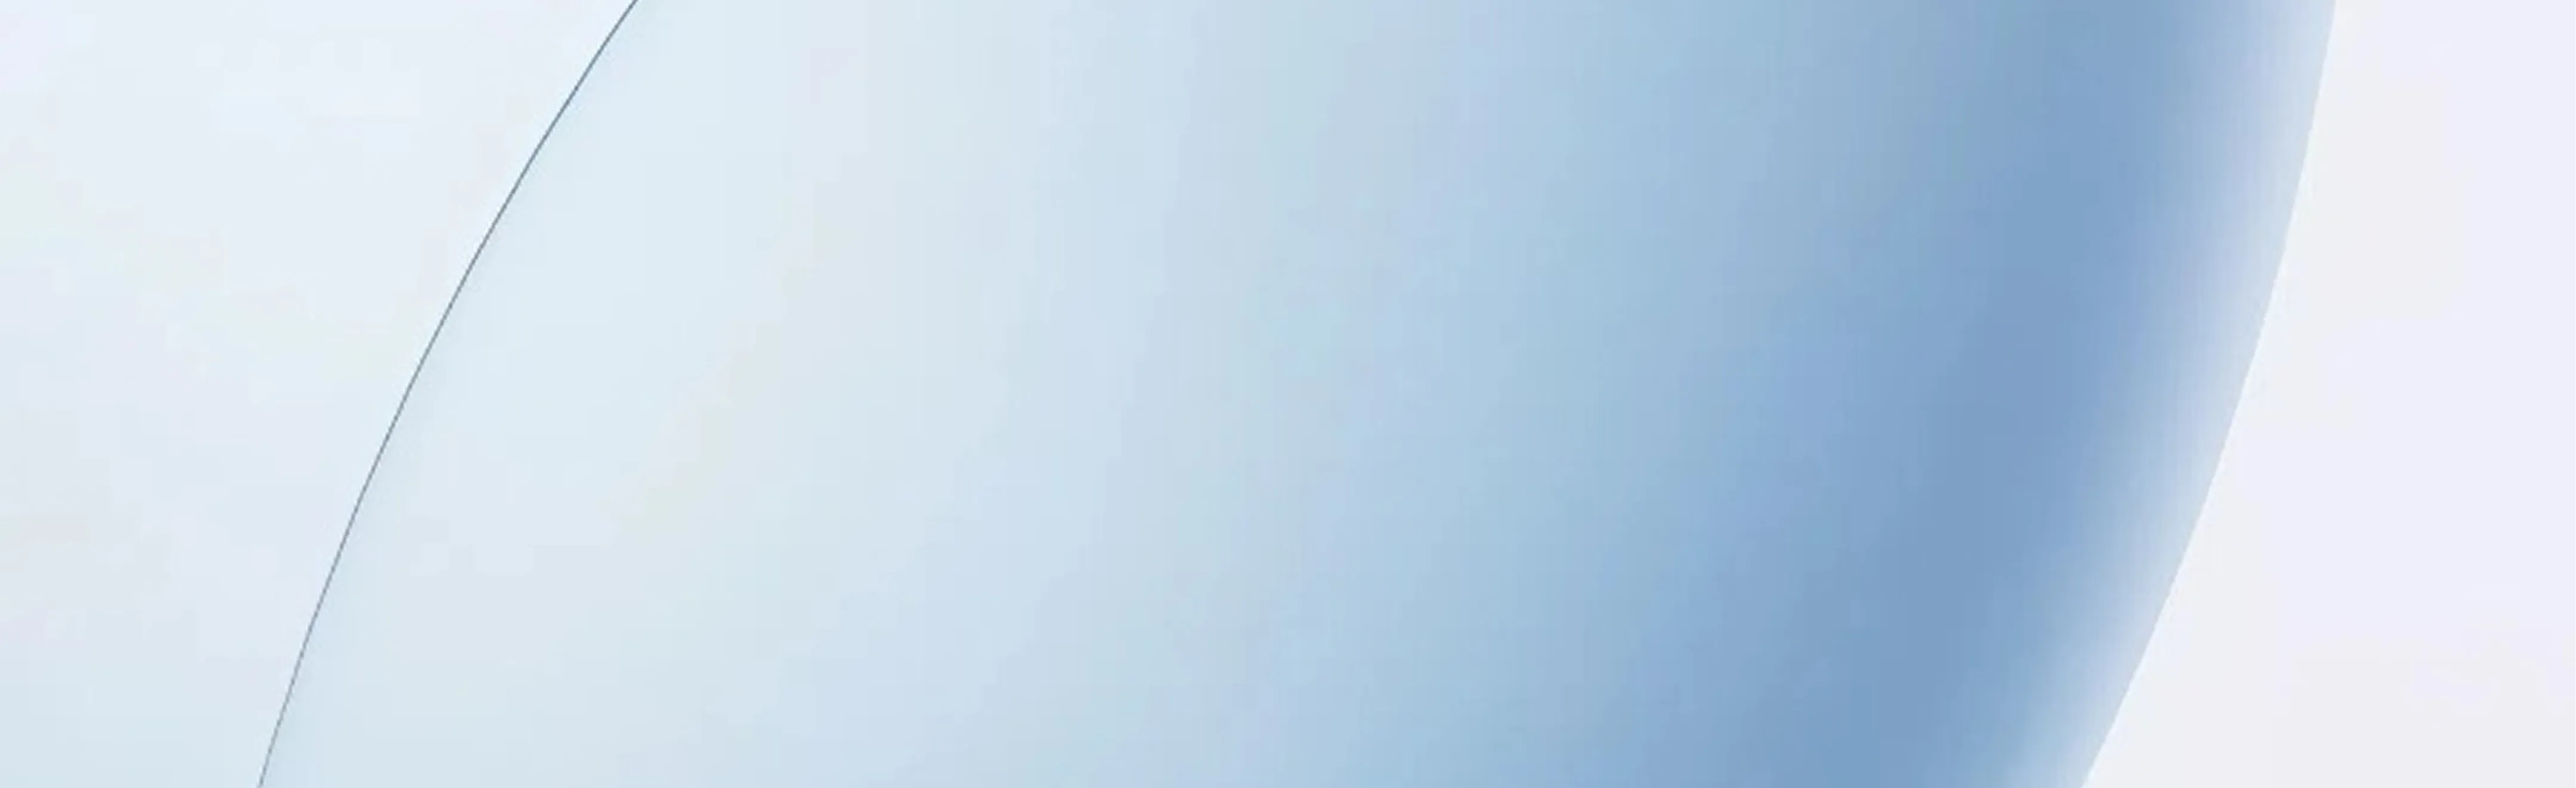
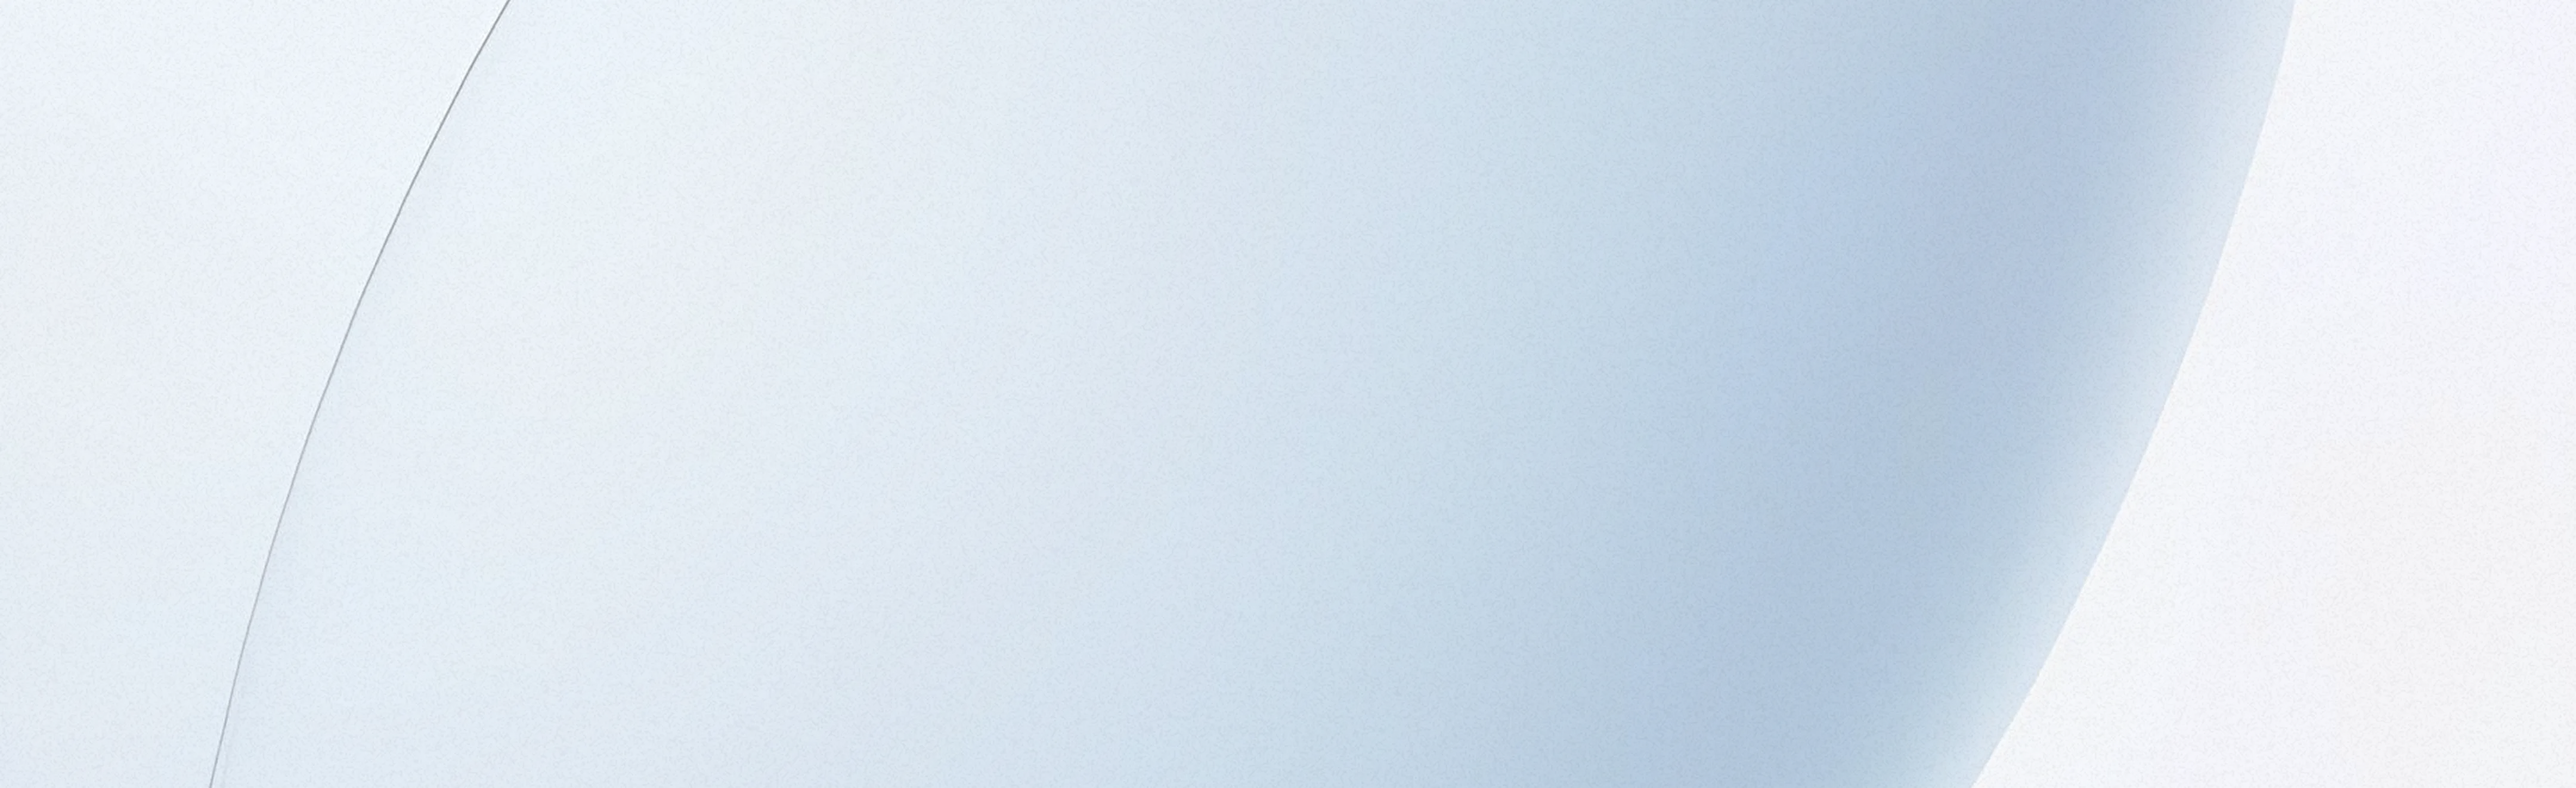
fix; add spacebetween to hero

diff --git a/wp-content/themes/igrmed/assets/css/components/privacy-policy/_hero.scss b/wp-content/themes/igrmed/assets/css/components/privacy-policy/_hero.scss
@@ -11,8 +11,17 @@
     overflow: hidden;
 
     @include mobile {
-        padding-top: convert-to-rem(40px);
-        padding-bottom: convert-to-rem(45px);
+        padding: 0;
+        min-height: convert-to-rem(320px);
+    }
+
+    .container {
+        @include mobile {
+            display: flex;
+            flex-direction: column;
+            justify-content: space-between;
+            min-height: inherit;
+        }
     }
 
     .simple-banner__title {

diff --git a/wp-content/themes/igrmed/assets/css/components/price/_hero.scss b/wp-content/themes/igrmed/assets/css/components/price/_hero.scss
@@ -11,7 +11,16 @@
     overflow: hidden;
 
     @include mobile {
-        padding-top: convert-to-rem(40px);
-        padding-bottom: convert-to-rem(45px);
+        padding: 0;
+        min-height: convert-to-rem(320px);
+    }
+
+    .container {
+        @include mobile {
+            display: flex;
+            flex-direction: column;
+            justify-content: space-between;
+            min-height: inherit;
+        }
     }
 }

diff --git a/wp-content/themes/igrmed/assets/css/layout/_simple-banner.scss b/wp-content/themes/igrmed/assets/css/layout/_simple-banner.scss
@@ -59,7 +59,7 @@
     }
 
     &__title {
-        color: var(--color-dark);
+      color: var(--color-dark);
     }
   }
 }

diff --git a/wp-content/themes/igrmed/sections/privacy-policy/hero.php b/wp-content/themes/igrmed/sections/privacy-policy/hero.php
@@ -1,4 +1,5 @@
 <?php
+
 /**
  * Privacy Policy Hero Section
  *

diff --git a/wp-content/themes/igrmed/sections/price/hero.php b/wp-content/themes/igrmed/sections/price/hero.php
@@ -1,4 +1,5 @@
 <?php
+
 /**
  * Price Page Hero Section
  *

diff --git a/wp-content/themes/igrmed/templates/simple-banner.php b/wp-content/themes/igrmed/templates/simple-banner.php
@@ -1,4 +1,5 @@
 <?php
+
 /**
  * Simple Banner Template
  *
